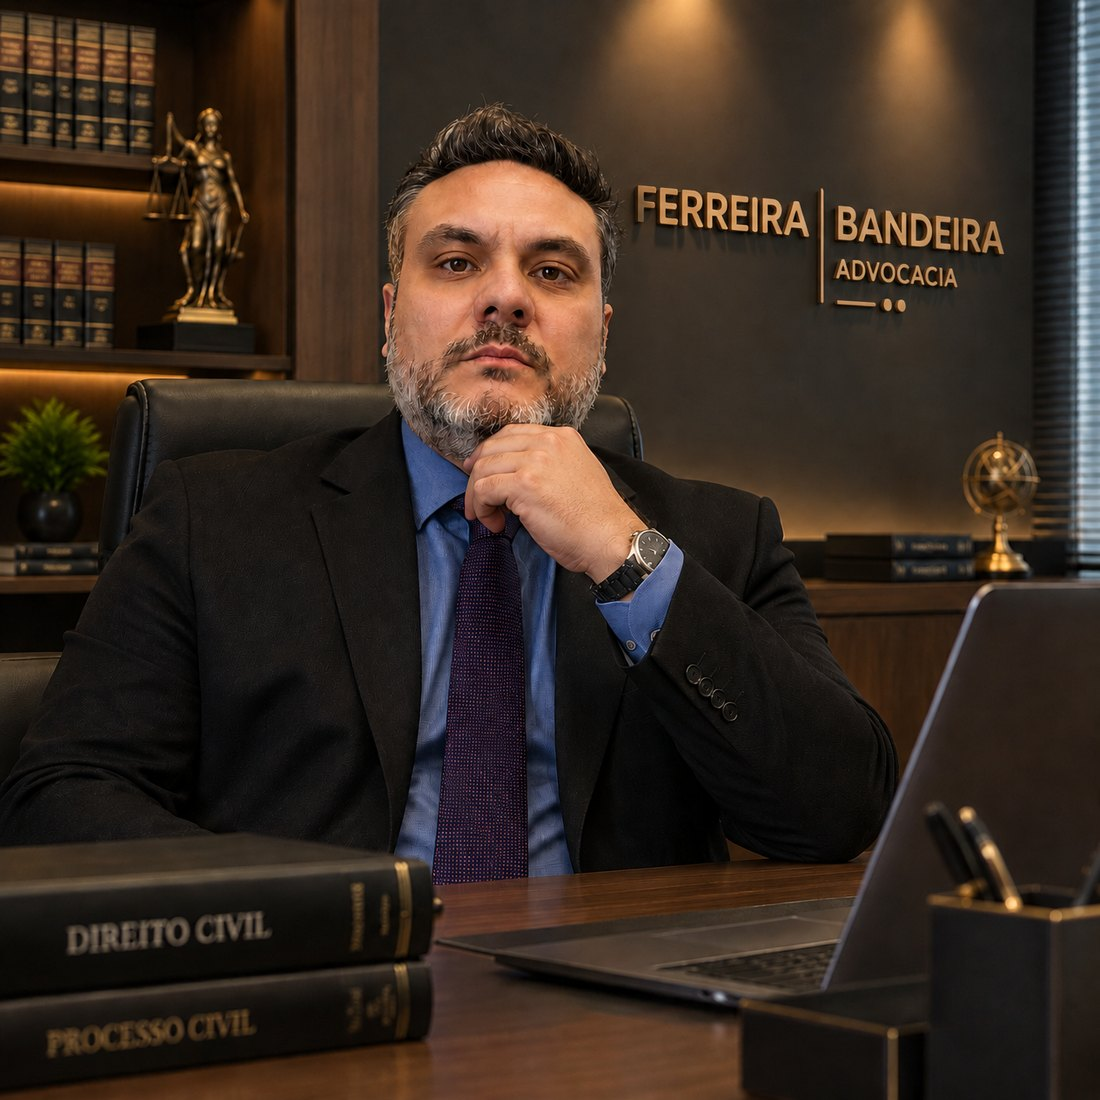
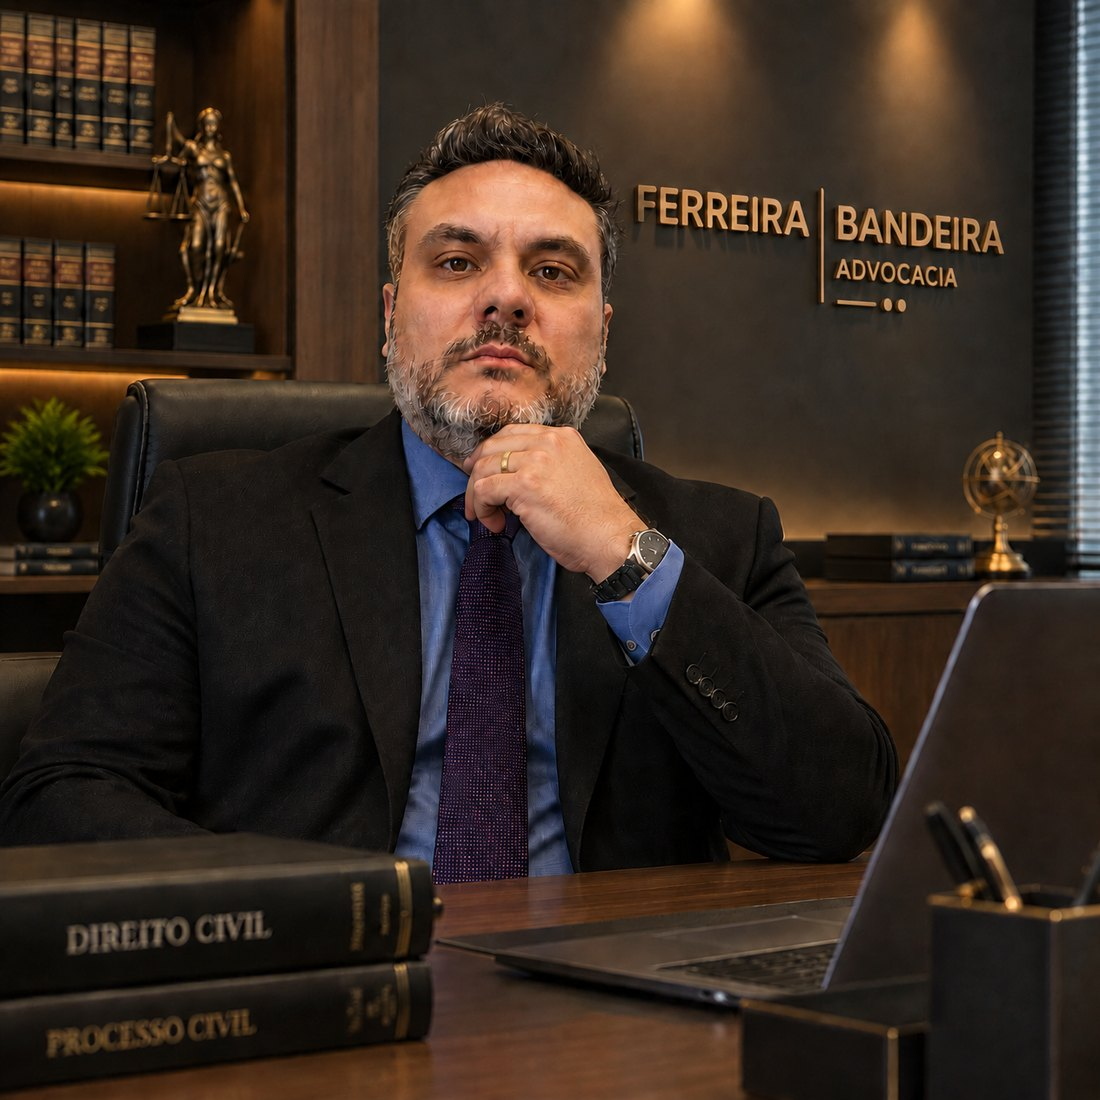
Nova foto na seção Quem sou (com aliança)
Claude-Session: https://claude.ai/code/session_016uA9FdEDwjXahrAq4msSJS

diff --git a/index.html b/index.html
@@ -114,7 +114,7 @@
           <a class="btn btn-outline" href="#advogado">Saiba mais sobre o advogado</a>
         </div>
         <div class="sobre-foto">
-          <picture><source srcset="/assets/mauricio-bandeira-2.webp" type="image/webp"><img src="/assets/mauricio-bandeira-2.jpg" alt="Maurício Bandeira, advogado, em seu escritório" width="1100" height="1100" loading="lazy" decoding="async"></picture>
+          <picture><source srcset="/assets/mauricio-bandeira-2.webp?v=20261112" type="image/webp"><img src="/assets/mauricio-bandeira-2.jpg?v=20261112" alt="Maurício Bandeira, advogado, em seu escritório" width="1100" height="1100" loading="lazy" decoding="async"></picture>
           <figure class="quote" style="margin:0">
             <p>Seriedade no trabalho, presença ao lado do cliente e cuidado em cada detalhe. Cada caso recebe a atenção que merece, do primeiro contato à última decisão.</p>
             <small>Maurício Bandeira</small>

diff --git a/tools/home.tpl.html b/tools/home.tpl.html
@@ -95,7 +95,7 @@
           <a class="btn btn-outline" href="#advogado">Saiba mais sobre o advogado</a>
         </div>
         <div class="sobre-foto">
-          <picture><source srcset="/assets/mauricio-bandeira-2.webp" type="image/webp"><img src="/assets/mauricio-bandeira-2.jpg" alt="Maurício Bandeira, advogado, em seu escritório" width="1100" height="1100" loading="lazy" decoding="async"></picture>
+          <picture><source srcset="/assets/mauricio-bandeira-2.webp?v=20261112" type="image/webp"><img src="/assets/mauricio-bandeira-2.jpg?v=20261112" alt="Maurício Bandeira, advogado, em seu escritório" width="1100" height="1100" loading="lazy" decoding="async"></picture>
           <figure class="quote" style="margin:0">
             <p>Seriedade no trabalho, presença ao lado do cliente e cuidado em cada detalhe. Cada caso recebe a atenção que merece, do primeiro contato à última decisão.</p>
             <small>Maurício Bandeira</small>

diff --git a/politica-de-privacidade/index.html b/politica-de-privacidade/index.html
@@ -61,7 +61,7 @@
 <p>Pelo tempo necessário para responder ao contato e, se houver contratação, pelo prazo exigido para o exercício da advocacia e o cumprimento de obrigações legais.</p>
 <h2>Seus direitos</h2>
 <p>Você pode, a qualquer momento, pedir a confirmação do tratamento, o acesso, a correção ou a exclusão dos seus dados, além de revogar o consentimento, nos termos do art. 18 da Lei 13.709/2018. Basta enviar um e-mail para mbandeira.adv@gmail.com.</p>
-<p class="base-legal">Última atualização: 11 nov. 2026.</p>
+<p class="base-legal">Última atualização: 12 nov. 2026.</p>
 </article></div></section>
 </main>
 <section class="selos-faixa" aria-label="Selos de confiança">
